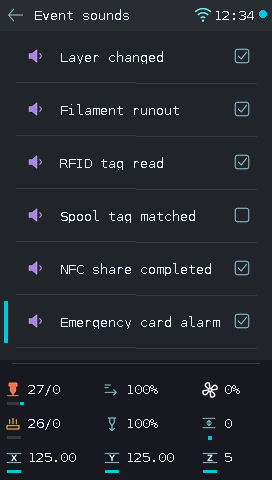
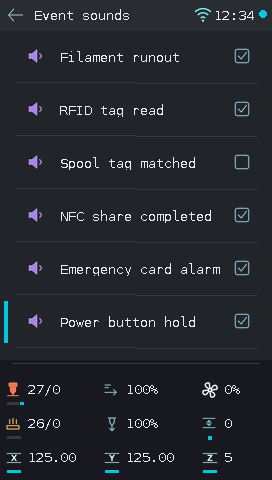
feat(buzzer): add power hold progress cues and persistent event switch

diff --git a/tests/test_power_shortcut.py b/tests/test_power_shortcut.py
@@ -309,3 +309,61 @@ class PowerShortcutTests(unittest.TestCase):
             v._button_released(); self.drain(v)
         v.Draw_Control_Menu.assert_called_once()
         self.assertEqual(v.checkkey, v.Control)
+
+    def test_hold_cues_follow_only_visible_progress_and_complete_once(self):
+        v = self.view(); v._event_buzzer_melody = Mock()
+        self.input(v, 'button_down', 10000)
+        for moment in (10.1, 10.44):
+            with patch.object(ui.time, 'monotonic', return_value=moment):
+                v._power_hold_tick()
+        v._event_buzzer_melody.assert_not_called()
+        for moment in (10.45, 10.47, 10.47, 10.49, 11.2, 11.4):
+            with patch.object(ui.time, 'monotonic', return_value=moment):
+                v._power_hold_tick()
+        self.assertEqual([c.args[0] for c in v._event_buzzer_melody.call_args_list],
+                         ['POWER_HOLD_START', 'POWER_HOLD_STEP', 'POWER_HOLD_STEP', 'POWER_HOLD_READY'])
+        self.input(v, 'button_release', 1400)
+        self.assertEqual(v._event_buzzer_melody.call_count, 4)
+        v.pd.power_off_if_on.assert_not_called()
+
+    def test_early_release_and_remote_cancel_replace_progress_with_cancel_cue(self):
+        for cancel in ('button_release', 'remote_button_cancel'):
+            v = self.view(); v._event_buzzer_melody = Mock()
+            self.input(v, 'button_down', 10000)
+            with patch.object(ui.time, 'monotonic', return_value=10.6):
+                v._power_hold_tick()
+            v._remote_power_hold_active = True
+            self.input(v, cancel, 650)
+            self.assertEqual([c.args[0] for c in v._event_buzzer_melody.call_args_list],
+                             ['POWER_HOLD_START', 'POWER_HOLD_CANCEL'])
+            self.assertIsNone(v._power_hold_started)
+            with patch.object(ui.time, 'monotonic', return_value=10.8):
+                self.assertFalse(v._power_hold_tick())
+            self.assertEqual(v._event_buzzer_melody.call_count, 2)
+            v.pd.power_off_if_on.assert_not_called()
+        v = self.view(); v._event_buzzer_melody = Mock()
+        self.gesture(v, .1)
+        v._event_buzzer_melody.assert_not_called()
+
+    def test_power_hold_checkbox_mutes_all_four_cues_with_global_volume(self):
+        v = self.view()
+        v._buzzer_load_complete = v._sound_event_prefs_ready = v._event_buzzer_ready = True
+        v._buzzer_player = Mock()
+        v._buzzer_values = ui.BuzzerSettings(volume=30)
+        cues = ('POWER_HOLD_START', 'POWER_HOLD_STEP', 'POWER_HOLD_READY', 'POWER_HOLD_CANCEL')
+        for name in cues:
+            v._event_buzzer_melody(name)
+        self.assertEqual([c.args[0] for c in v._buzzer_player.play_melody.call_args_list], list(cues))
+        self.assertTrue(all(c.args[1].volume == 30 and c.kwargs['priority']
+                            for c in v._buzzer_player.play_melody.call_args_list))
+        v._buzzer_player.reset_mock()
+        v._event_sound_values = v._event_sound_settings().toggled('POWER_HOLD')
+        for name in cues:
+            v._event_buzzer_melody(name)
+        v._buzzer_player.play_melody.assert_not_called()
+        v._event_sound_values = v._event_sound_settings().toggled('POWER_HOLD')
+        for settings in (ui.BuzzerSettings(volume=0), ui.BuzzerSettings(enabled=False)):
+            v._buzzer_values = settings
+            for name in cues:
+                v._event_buzzer_melody(name)
+        v._buzzer_player.play_melody.assert_not_called()

diff --git a/ui_power.py b/ui_power.py
@@ -41,8 +41,10 @@ class PowerShortcutMixin:
             return
         self._loop.post(InputEvent('button_release', elapsed, epoch, ui_epoch))
 
-    def _clear_power_hold(self, restore=True):
+    def _clear_power_hold(self, restore=True, *, cancelled=True):
         visible = getattr(self, '_power_hold_visible', False)
+        if visible and cancelled:
+            self._event_buzzer_melody('POWER_HOLD_CANCEL')
         self._power_hold_started = None
         self._remote_power_hold_active = False
         self._remote_power_hold_deadline = None
@@ -84,7 +86,10 @@ class PowerShortcutMixin:
             return False
         wake_only = getattr(self, '_power_wake_only', False)
         self._power_wake_only = False
-        self._clear_power_hold(restore=event.value < self.POWER_OFF_HOLD_MS)
+        completed = event.value >= self.POWER_OFF_HOLD_MS
+        if completed and not getattr(self, '_power_hold_ready', False):
+            self._event_buzzer_melody('POWER_HOLD_READY')
+        self._clear_power_hold(restore=not completed, cancelled=not completed)
         if event.value >= self.POWER_OFF_HOLD_MS:
             if self.checkkey != self.PowerConfirm:
                 self._open_power_hold_popup()
@@ -113,7 +118,9 @@ class PowerShortcutMixin:
         elapsed = round((time.monotonic() - started) * 1000)
         if elapsed < self.SHORT_PRESS_MS or self.checkkey == self.PowerConfirm:
             return True
-        dirty = not self._power_hold_visible
+        first_step = not self._power_hold_visible
+        dirty = first_step
+        cue = 'POWER_HOLD_START' if first_step else None
         if not self._power_hold_visible:
             self._power_hold_visible = True
             show_icon(self.lcd, self.ICON, ICON_POWER_HOLD_PANEL, 28, 160)
@@ -124,6 +131,8 @@ class PowerShortcutMixin:
                        / (self.POWER_OFF_HOLD_MS - self.SHORT_PRESS_MS)))
         pixels = round(progress * 184)
         if pixels > self._power_hold_pixels:
+            if not first_step:
+                cue = 'POWER_HOLD_STEP'
             dirty = True
             self.lcd.draw_rectangle(1, 0x063B, 44 + self._power_hold_pixels,
                                     214, 43 + pixels, 221)
@@ -131,9 +140,12 @@ class PowerShortcutMixin:
         if progress == 1 and not self._power_hold_ready:
             dirty = True
             self._power_hold_ready = True
+            cue = 'POWER_HOLD_READY'
             self.lcd.draw_text(False, False, self.lcd.font8x16,
                 self.lcd.Popup_Text_Color, self.lcd.Color_Bg_Window,
                 56, 236, 'Release to continue')
+        if cue is not None:
+            self._event_buzzer_melody(cue)
         if dirty:
             self.lcd.update()
         return True

diff --git a/tests/test_event_sound_settings.py b/tests/test_event_sound_settings.py
@@ -11,7 +11,7 @@ from test_capabilities import display, snapshot
 class EventSoundRecordTests(TestCase):
     def test_all_enabled_default_independent_bits_and_crc_roundtrip(self):
         values = EventSounds()
-        self.assertEqual(len(EVENTS),17)
+        self.assertEqual(len(EVENTS),18)
         self.assertTrue(all(values.enabled(name) for name,_ in EVENTS))
         for name,_ in EVENTS:
             one = values.toggled(name)
@@ -28,6 +28,18 @@ class EventSoundRecordTests(TestCase):
             self.assertIsNone(EventSounds.decode(missing))
         future = EventSounds(1<<31)
         self.assertEqual(EventSounds.decode(future.toggled('BOOT').encode()).disabled,(1<<31)|BITS['BOOT'])
+
+    def test_new_hold_bit_preserves_old_choices_and_defaults_on_for_old_records(self):
+        old = EventSounds((1 << 17) - 1)
+        restored = EventSounds.decode(old.encode())
+        self.assertTrue(restored.enabled('POWER_HOLD'))
+        self.assertEqual(BITS['EMERGENCY'], 1 << 16)
+        self.assertEqual(BITS['POWER_HOLD'], 1 << 17)
+        muted = restored.toggled('POWER_HOLD')
+        for cue in ('POWER_HOLD_START', 'POWER_HOLD_STEP', 'POWER_HOLD_READY', 'POWER_HOLD_CANCEL'):
+            self.assertFalse(muted.enabled(cue))
+        self.assertEqual(muted.disabled & ((1 << 17) - 1), old.disabled)
+        self.assertEqual(EventSounds.decode(muted.encode()), muted)
 
     def test_flash_record_is_disjoint_from_all_existing_settings(self):
         from buzzer_control import ADDRESS as old, LEGACY_RECORD_SIZE
@@ -65,7 +77,7 @@ class EventSoundUITests(TestCase):
         self.assertEqual(view.checkkey,view.EventSoundsMenu)
         self.assertEqual(view._event_sound_selection,0)
         rows=view._draw_list_menu.call_args.args[1]
-        self.assertEqual(len(rows),18)
+        self.assertEqual(len(rows),19)
         self.assertEqual(rows[0][0],'Back')
         self.assertTrue(all(r[2] and getattr(r[3],'checkbox',False) for r in rows[1:]))
         view.HMI_Event_Sounds_Menu()

diff --git a/event_sound_settings.py b/event_sound_settings.py
@@ -26,7 +26,10 @@ EVENTS = (
     ('NFC_SPOOL_MATCH', 'Spool tag matched'),
     ('NFC_SHARE_DONE', 'NFC share completed'),
     ('EMERGENCY', 'Emergency card alarm'),
+    ('POWER_HOLD', 'Power button hold'),
 )
+CUE_EVENTS = {name: 'POWER_HOLD' for name in (
+    'POWER_HOLD_START', 'POWER_HOLD_STEP', 'POWER_HOLD_READY', 'POWER_HOLD_CANCEL')}
 BITS = {name: 1 << index for index, (name, _) in enumerate(EVENTS)}
 
 
@@ -41,7 +44,7 @@ class EventSounds:
         return self
 
     def enabled(self, name):
-        return not bool(self.disabled & BITS.get(name, 0))
+        return not bool(self.disabled & BITS.get(CUE_EVENTS.get(name, name), 0))
 
     def toggled(self, name):
         return replace(self, disabled=self.disabled ^ BITS[name]).validate()

diff --git a/tools/render_docs_screenshots.py b/tools/render_docs_screenshots.py
@@ -214,11 +214,11 @@ def event_sounds():
     return finish(v)
 
 
-@scene('event-sounds-nfc', 'controls', 'NFC and emergency sound choices (example)', 'NFC ve emergency ses seçimleri (örnek)')
+@scene('event-sounds-nfc', 'controls', 'NFC, emergency and power hold sound choices (example)', 'NFC, emergency ve basılı tutma ses seçimleri (örnek)')
 def event_sounds_nfc():
     v = canvas(); v.checkkey = v.EventSoundsMenu
     v._event_sound_values = v._event_sound_settings().toggled('NFC_SPOOL_MATCH')
-    v._event_sound_selection = 17
+    v._event_sound_selection = 18
     v.Draw_Event_Sounds_Menu()
     return finish(v)
 

diff --git a/buzzer_melodies.py b/buzzer_melodies.py
@@ -31,6 +31,11 @@ MELODIES = MappingProxyType({
     'NFC_TAG_READ': _score((1047,45),(0,20),(1319,70)),
     'NFC_SPOOL_MATCH': _score((1047,45),(0,20),(1319,70),(0,30),(1568,125)),
     'NFC_SHARE_DONE': _score((1047,45),(0,20),(1319,70),(0,30),(1568,75),(0,30),(2093,160)),
+    # One short cue per rendered hold step; never a continuous melody loop.
+    'POWER_HOLD_START': _score((1047,18)),
+    'POWER_HOLD_STEP': _score((1568,7)),
+    'POWER_HOLD_READY': _score((2093,50)),
+    'POWER_HOLD_CANCEL': _score((784,22),(0,10),(523,40)),
     'OFF': (),
     'TICK': ((1800, .015),),
     'SHORT_BEEP': ((1400, .055),),

diff --git a/docs/user-guide_TR.md b/docs/user-guide_TR.md
@@ -286,11 +286,13 @@ olmadan isimle çağrılabilir.
 
 ### Olay seslerini açma ve kapatma
 
-**Device → Event sounds** altında 17 bağımsız checkbox bulunur: yukarıdaki on altı olay ve **Emergency card alarm**. Enkoderle olayı seçip basarak açıp kapatın. İlk kurulumda ve geçerli kayıt bulunmayan güncellemelerde hepsi varsayılan açıktır. WARNING ve CUSTOM_EVENT yalnız melodi kütüphanesinde kalır.
+**Device → Event sounds** altında 18 bağımsız checkbox bulunur: yukarıdaki on altı olay, **Emergency card alarm** ve **Power button hold**. Enkoderle olayı seçip basarak açıp kapatın. İlk kurulumda ve geçerli kayıt bulunmayan güncellemelerde hepsi varsayılan açıktır. WARNING ve CUSTOM_EVENT yalnız melodi kütüphanesinde kalır.
 
 Her değişiklik DWIN Flash'a otomatik kaydedilir ve geri okunarak doğrulanır. Kayıt sürerken son doğrulanan seçimler geçerlidir. **Not saved** durumunda önceki seçimler korunur; tekrar basarak kaydı deneyin. **Retry read** ayarları yeniden okur. `0x0480` adresindeki ayrı, CRC korumalı 16 baytlık kayıt mevcut ekran ve buzzer ayarlarını korur.
 
 Ana Buzzer anahtarı bütün sesleri susturmaya devam eder. Normal olay melodileri Volume ayarını kullanır. Acil durum alarmı açıkken tam sesle çalar; kendi kutusunu kapatmak yalnız alarmı susturur, **acil durdurma işlemini devre dışı bırakmaz**. Tuş ve enkoder tonları mevcut ayarlarını kullanmaya devam eder.
+
+**Power button hold**, dört kısa sesi birlikte kontrol eder: basılı tutma çubuğu açılınca başlangıç, çizilen her ilerleme adımında 7 ms tık, dolunca farklı bir hazır tonu ve erken bırakınca alçalan iptal sesi. Normal kısa basış bu sesleri üretmez. Gecikmiş adımlar için ses birikmez; çubuk dolunca yine bırakmak ve mevcut ayrı kapatma onayını vermek gerekir. Dört ses de genel ses anahtarı/seviyesine uyar, acil alarmı kesemez. Yeni bit mevcut Flash kaydına sona eklenir; önceki seçimler korunur ve bu seçenek varsayılan açıktır.
 
 ![Olay sesi seçimleri](assets/screens/event-sounds.png)
 ![RFID, NFC ve acil durum sesi seçimleri](assets/screens/event-sounds-nfc.png)

diff --git a/docs/screenshots_TR.md b/docs/screenshots_TR.md
@@ -72,7 +72,7 @@ Statik görüntüler belgelenmiş örnek durumları gösterir. Değer, etiket ve
 | Ses seviyesini düzenleme | <a href="assets/screens/display-volume-edit.png"><img src="assets/screens/framed/display-volume-edit.png" width="176" alt="Ses seviyesini düzenleme"></a> | [Tam boyut PNG](assets/screens/display-volume-edit.png) |
 | Buzzer etkin/devre dışı | <a href="assets/screens/buzzer.png"><img src="assets/screens/framed/buzzer.png" width="176" alt="Buzzer etkin/devre dışı"></a> | [Tam boyut PNG](assets/screens/buzzer.png) |
 | Olay sesi checkbox’ları (tümü açık) | <a href="assets/screens/event-sounds.png"><img src="assets/screens/framed/event-sounds.png" width="176" alt="Olay sesi checkbox’ları (tümü açık)"></a> | [Tam boyut PNG](assets/screens/event-sounds.png) |
-| NFC ve emergency ses seçimleri (örnek) | <a href="assets/screens/event-sounds-nfc.png"><img src="assets/screens/framed/event-sounds-nfc.png" width="176" alt="NFC ve emergency ses seçimleri (örnek)"></a> | [Tam boyut PNG](assets/screens/event-sounds-nfc.png) |
+| NFC, emergency ve basılı tutma ses seçimleri (örnek) | <a href="assets/screens/event-sounds-nfc.png"><img src="assets/screens/framed/event-sounds-nfc.png" width="176" alt="NFC, emergency ve basılı tutma ses seçimleri (örnek)"></a> | [Tam boyut PNG](assets/screens/event-sounds-nfc.png) |
 | Güç basılı tutma göstergesi 450 ms sonra görünür | <a href="assets/screens/hold-start.png"><img src="assets/screens/framed/hold-start.png" width="176" alt="Güç basılı tutma göstergesi 450 ms sonra görünür"></a> | [Tam boyut PNG](assets/screens/hold-start.png) |
 | İlerleme çubuğu dolana kadar basılı tutma | <a href="assets/screens/hold-progress.png"><img src="assets/screens/framed/hold-progress.png" width="176" alt="İlerleme çubuğu dolana kadar basılı tutma"></a> | [Tam boyut PNG](assets/screens/hold-progress.png) |
 | 1.2 saniye sonra bırakma | <a href="assets/screens/hold-ready.png"><img src="assets/screens/framed/hold-ready.png" width="176" alt="1.2 saniye sonra bırakma"></a> | [Tam boyut PNG](assets/screens/hold-ready.png) |

diff --git a/docs/user-guide.md b/docs/user-guide.md
@@ -287,11 +287,13 @@ without automatic event bindings.
 
 ### Event sound switches
 
-Open **Device → Event sounds** for 17 independent checkboxes: the sixteen events above plus **Emergency card alarm**. Rotate to an event and press to toggle it. Every option defaults to enabled on first installation or an upgrade without a valid saved record. WARNING and CUSTOM_EVENT remain library-only.
+Open **Device → Event sounds** for 18 independent checkboxes: the sixteen events above plus **Emergency card alarm** and **Power button hold**. Rotate to an event and press to toggle it. Every option defaults to enabled on first installation or an upgrade without a valid saved record. WARNING and CUSTOM_EVENT remain library-only.
 
 Each change is saved automatically to DWIN Flash and read back for verification. While saving, the last verified choices remain effective. **Not saved** retains those choices; press again to retry. **Retry read** retries loading preferences. The separate CRC-protected 16-byte record at `0x0480` preserves existing display and buzzer settings.
 
 The master Buzzer switch still mutes all sounds. Ordinary event melodies use Volume. The emergency alarm uses full volume when enabled; disabling its checkbox silences only the alarm and **does not disable the emergency-stop action**. Click and encoder tones keep their existing settings.
+
+The **Power button hold** switch controls four short cues: start when the hold bar appears, a 7 ms tick per rendered progress advance, a distinct ready tone when full, and a descending cancellation cue on early release. A normal short click has no hold cue. Delayed ticks never replay missed steps; reaching full still requires release and the existing separate power-off confirmation. All four use global mute/volume and remain below emergency priority. The new bit is appended to the existing Flash record; previous choices are retained and this option defaults on.
 
 ![Event sound checkboxes](assets/screens/event-sounds.png)
 ![RFID, NFC and emergency sound switches](assets/screens/event-sounds-nfc.png)

diff --git a/docs/screenshots.md b/docs/screenshots.md
@@ -72,7 +72,7 @@ Static captures illustrate documented example states. Values, labels and availab
 | Editing sound volume | <a href="assets/screens/display-volume-edit.png"><img src="assets/screens/framed/display-volume-edit.png" width="176" alt="Editing sound volume"></a> | [Full-size PNG](assets/screens/display-volume-edit.png) |
 | Buzzer enabled/disabled | <a href="assets/screens/buzzer.png"><img src="assets/screens/framed/buzzer.png" width="176" alt="Buzzer enabled/disabled"></a> | [Full-size PNG](assets/screens/buzzer.png) |
 | Per-event sound checkboxes (all enabled) | <a href="assets/screens/event-sounds.png"><img src="assets/screens/framed/event-sounds.png" width="176" alt="Per-event sound checkboxes (all enabled)"></a> | [Full-size PNG](assets/screens/event-sounds.png) |
-| NFC and emergency sound choices (example) | <a href="assets/screens/event-sounds-nfc.png"><img src="assets/screens/framed/event-sounds-nfc.png" width="176" alt="NFC and emergency sound choices (example)"></a> | [Full-size PNG](assets/screens/event-sounds-nfc.png) |
+| NFC, emergency and power hold sound choices (example) | <a href="assets/screens/event-sounds-nfc.png"><img src="assets/screens/framed/event-sounds-nfc.png" width="176" alt="NFC, emergency and power hold sound choices (example)"></a> | [Full-size PNG](assets/screens/event-sounds-nfc.png) |
 | Power hold appears after 450 ms | <a href="assets/screens/hold-start.png"><img src="assets/screens/framed/hold-start.png" width="176" alt="Power hold appears after 450 ms"></a> | [Full-size PNG](assets/screens/hold-start.png) |
 | Continue holding to fill the progress bar | <a href="assets/screens/hold-progress.png"><img src="assets/screens/framed/hold-progress.png" width="176" alt="Continue holding to fill the progress bar"></a> | [Full-size PNG](assets/screens/hold-progress.png) |
 | Release after 1.2 seconds | <a href="assets/screens/hold-ready.png"><img src="assets/screens/framed/hold-ready.png" width="176" alt="Release after 1.2 seconds"></a> | [Full-size PNG](assets/screens/hold-ready.png) |
